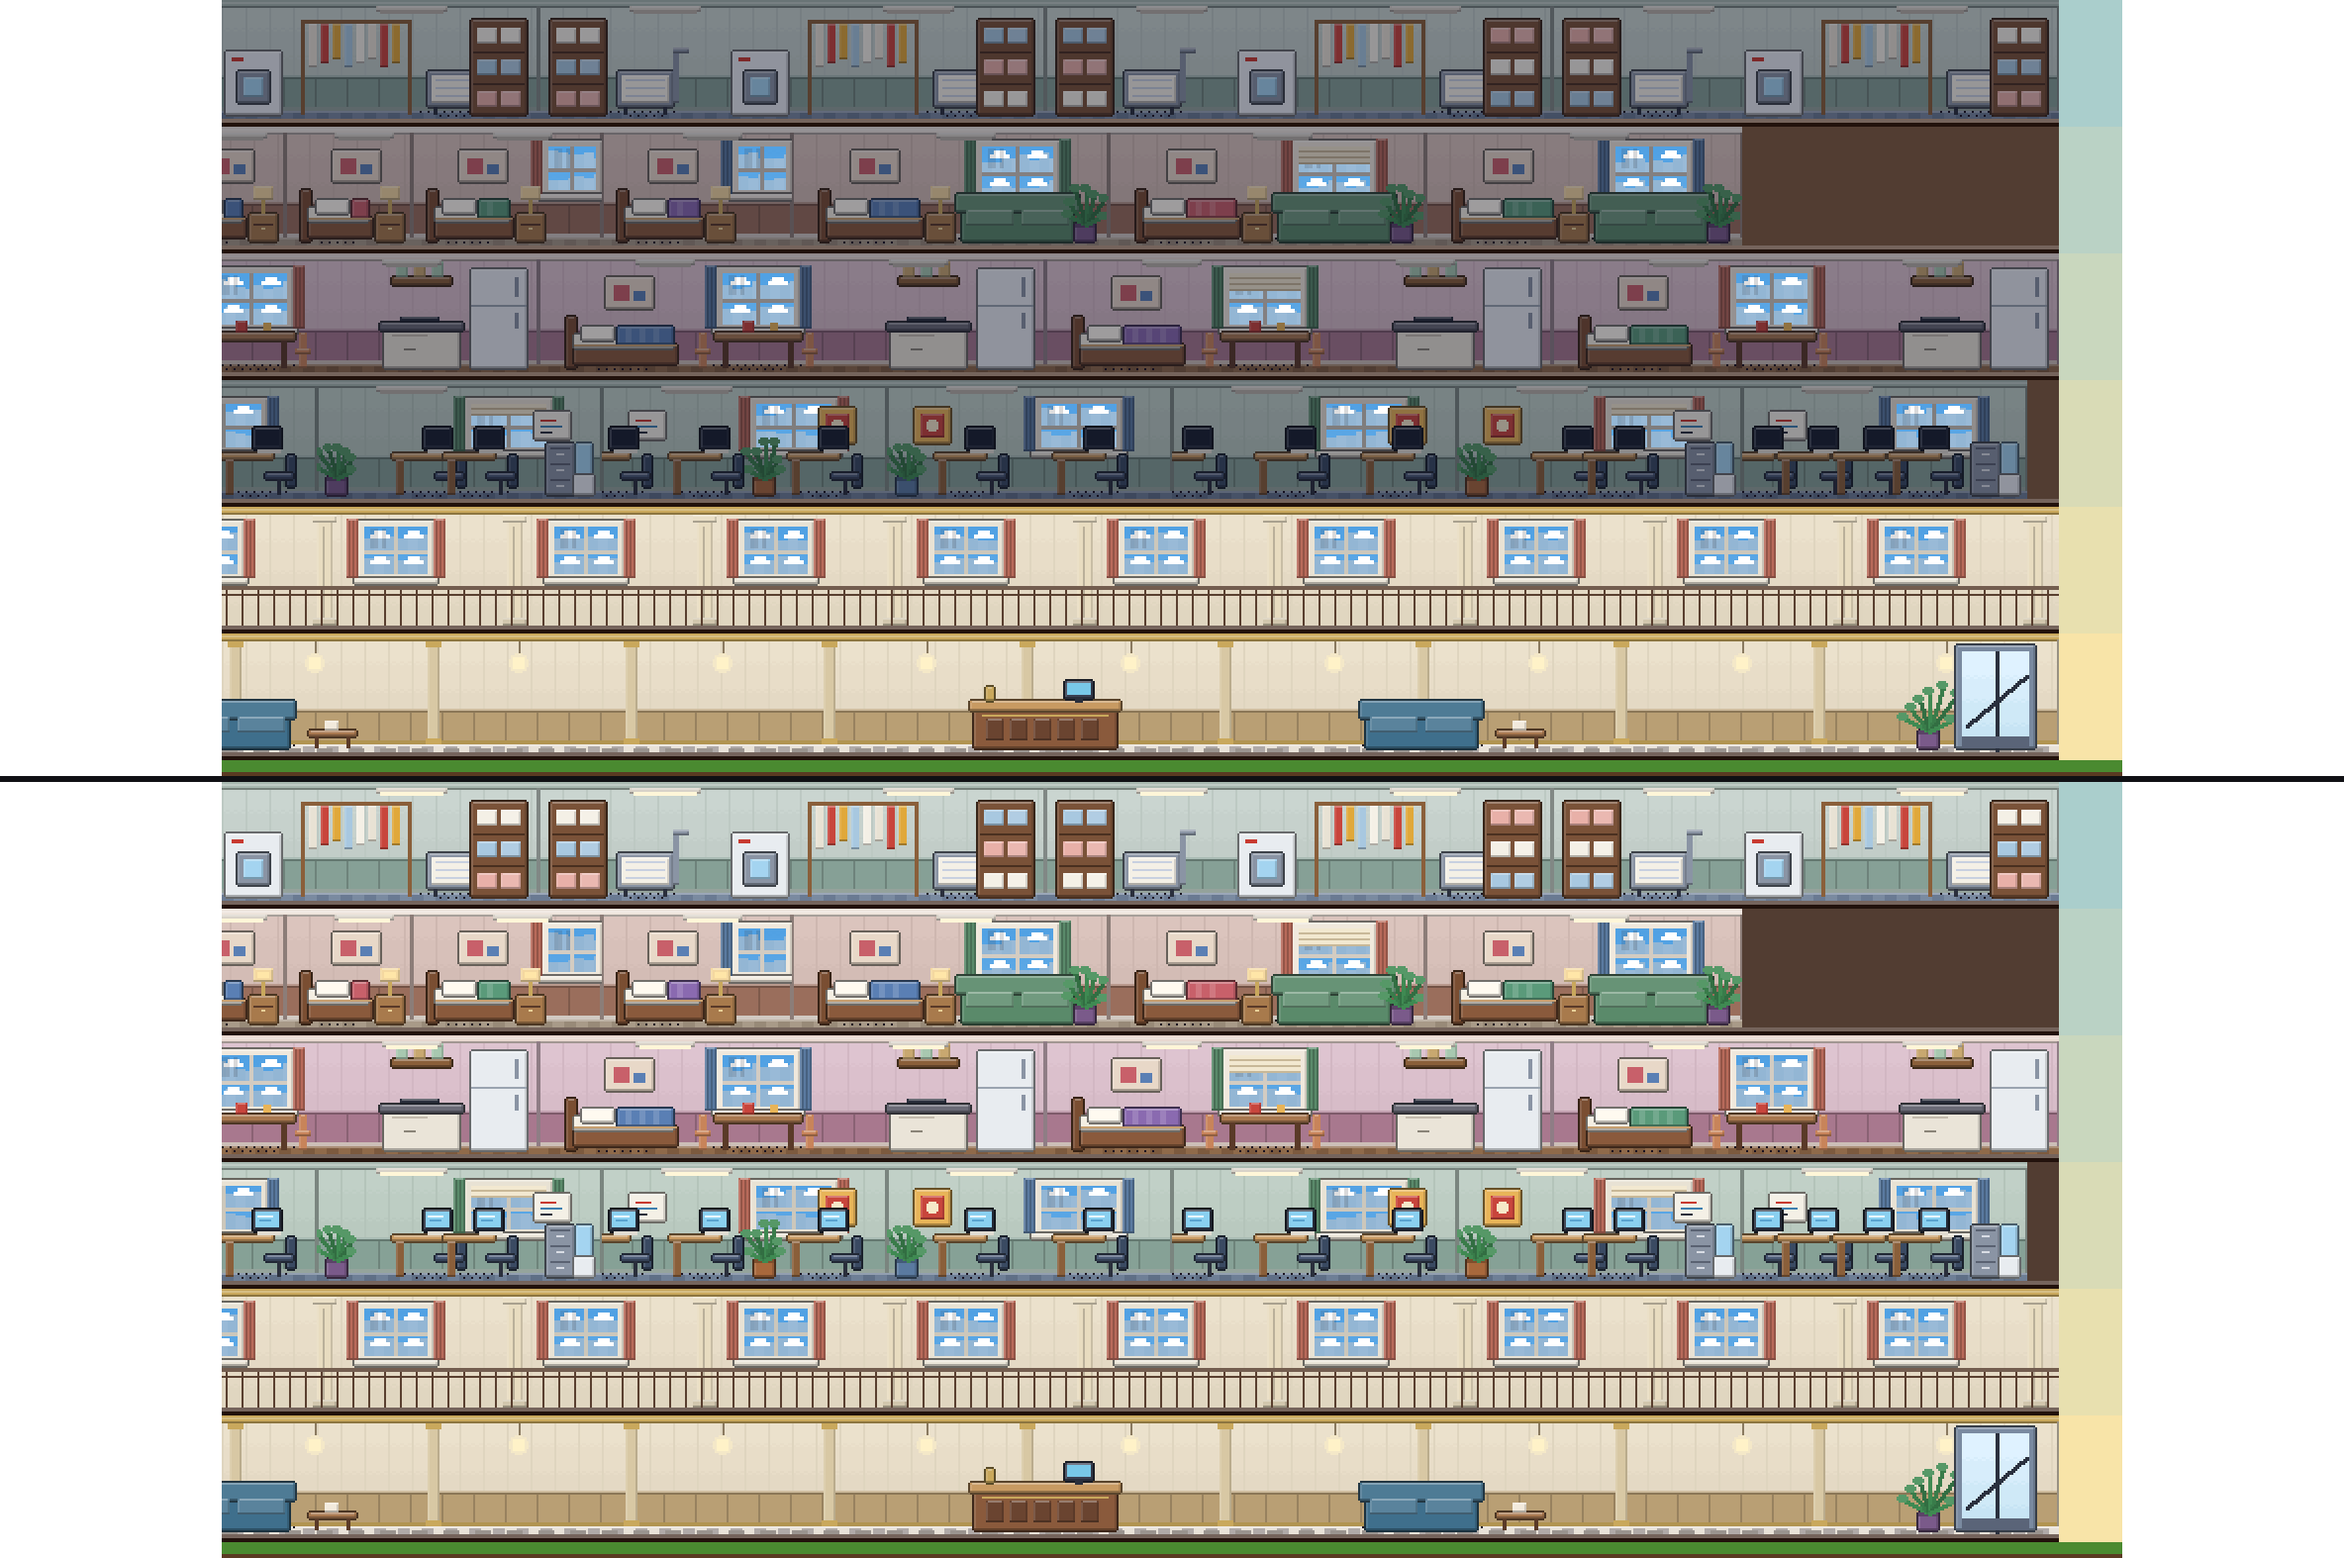
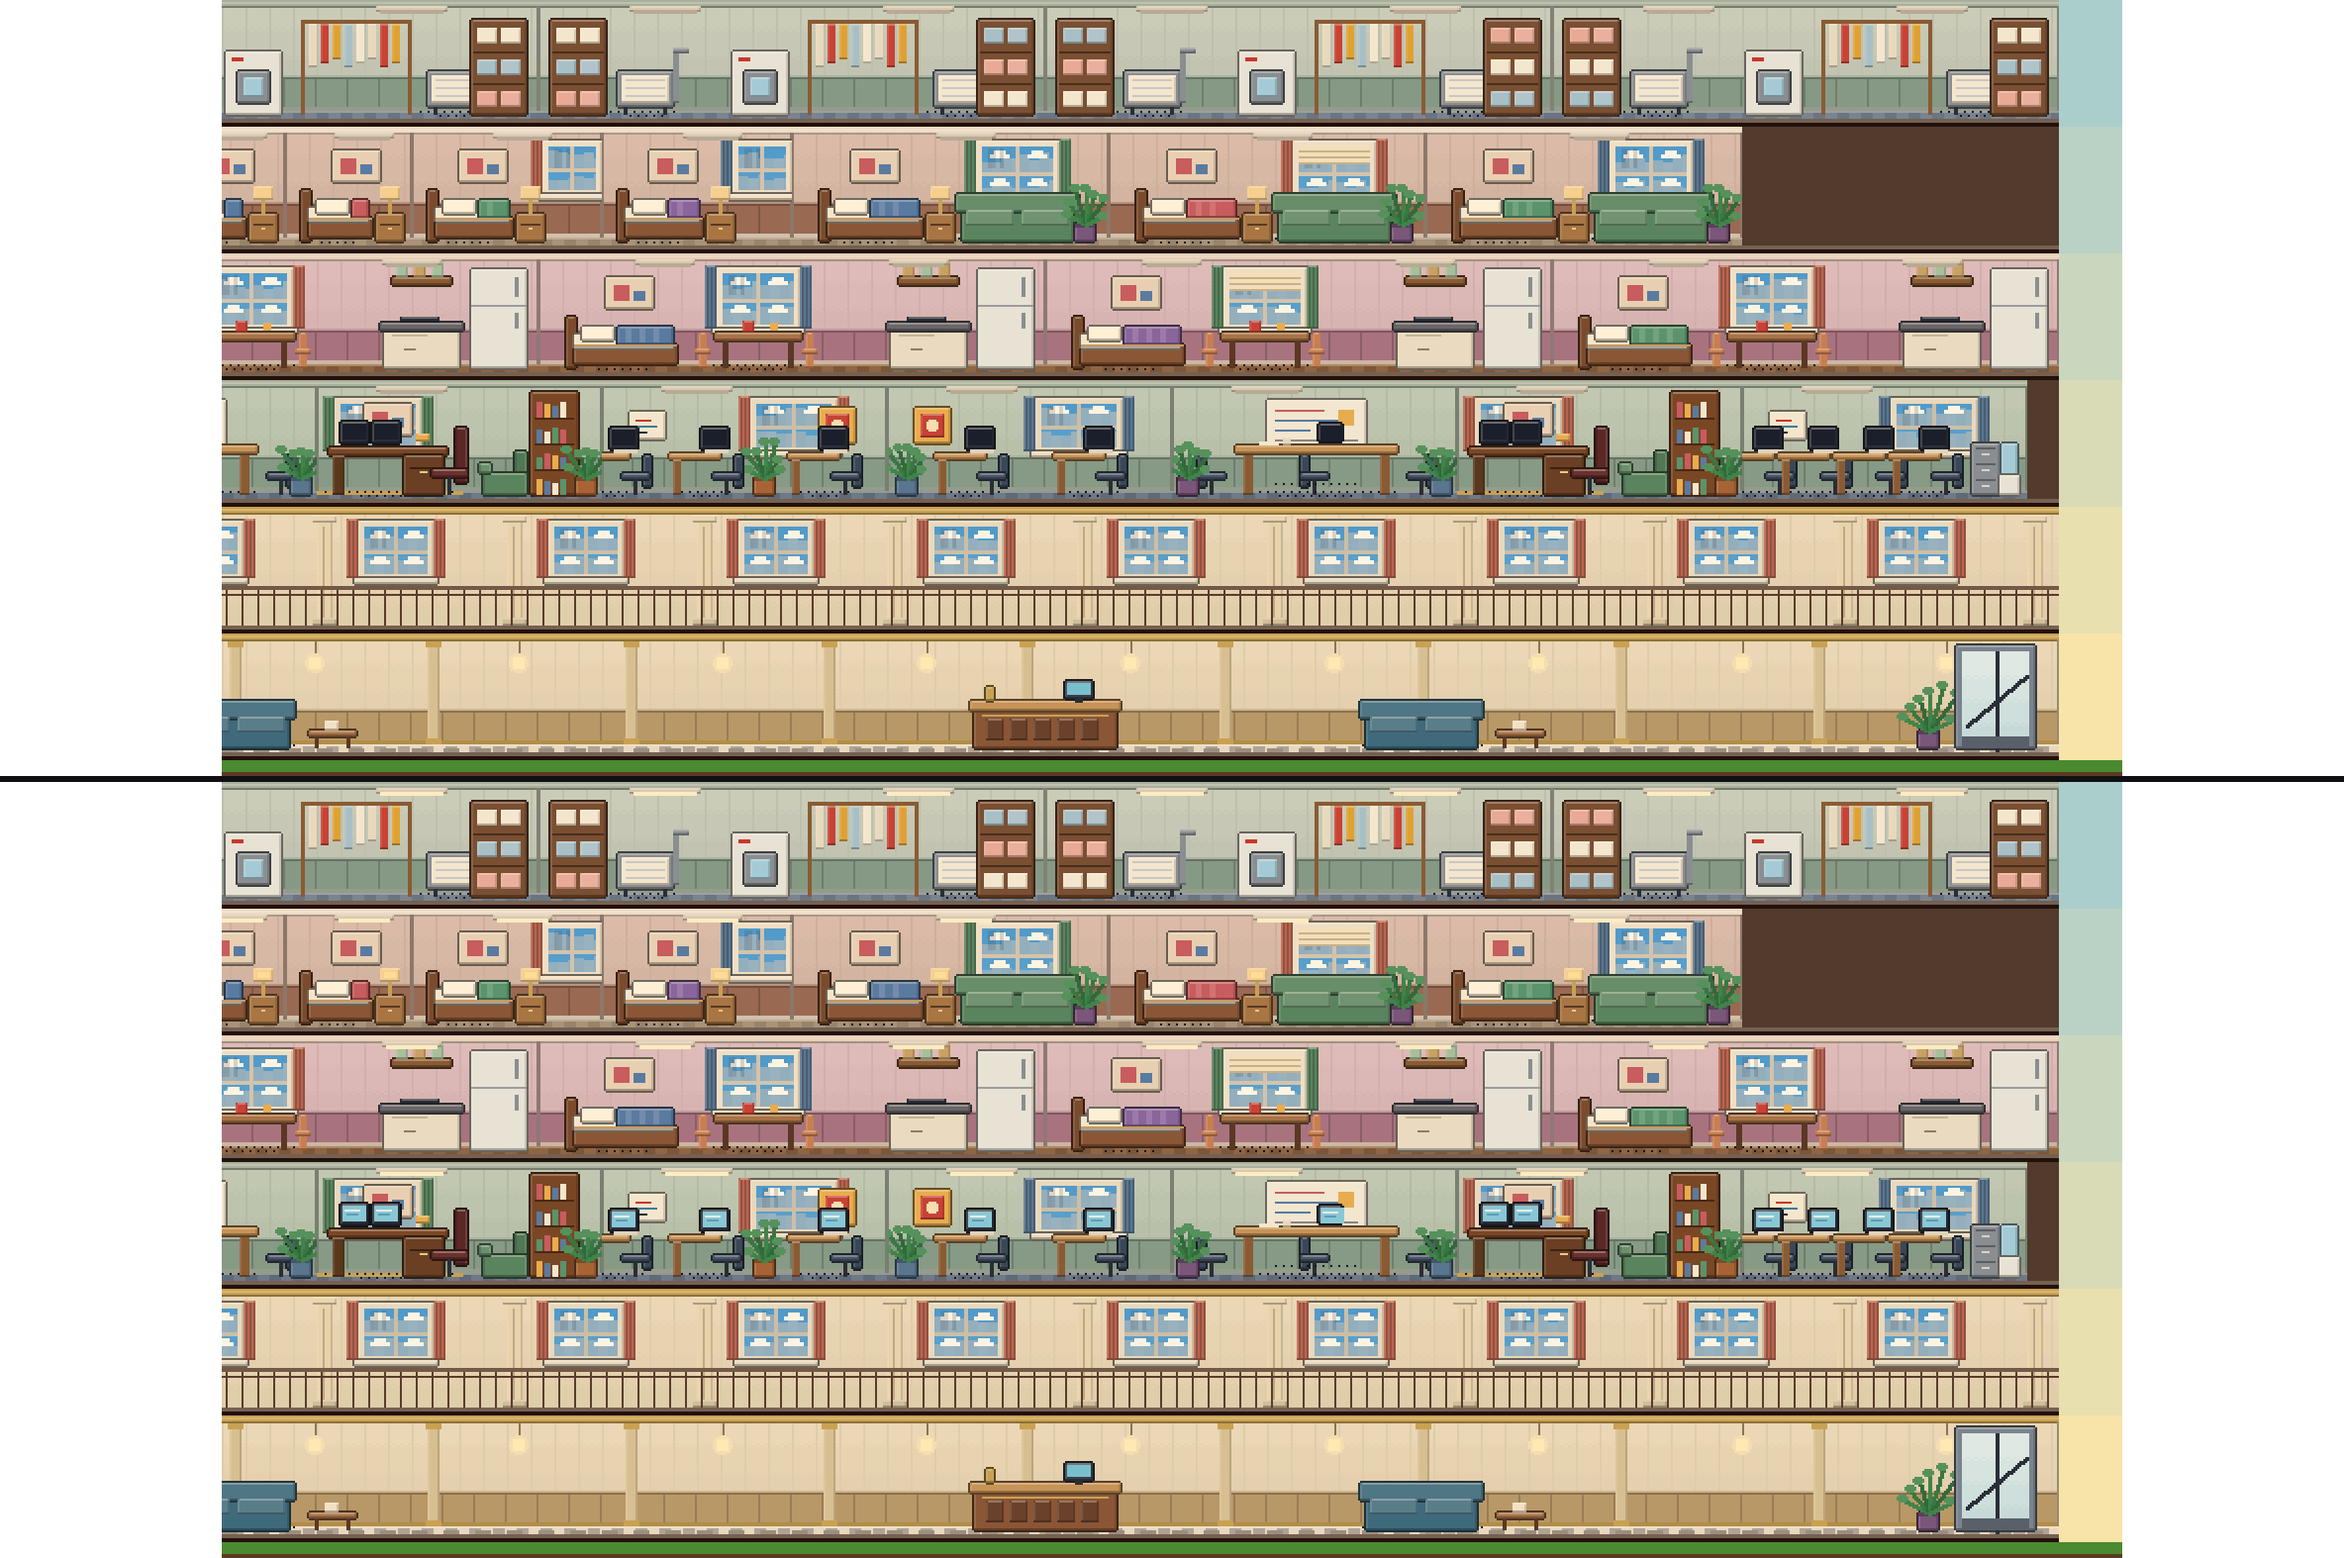
Detailed night as lighting: ambient darkening plus an additive glow layer; distinct office variants (refs #305, refs #275)

diff --git a/docs/art-standard.md b/docs/art-standard.md
@@ -61,6 +61,9 @@ Direction G was chosen (#300). Detailed batch 1 (#302: lobby, office, condo, hot
 rects, shown on a 2x static canvas (`TowerRenderer._apply_density`), so spots, camera and picking are unchanged. Use an even
 camera zoom to keep sub-pixels crisp. Captures: `docs/mockups/detailed_batch1_day.png` and `_night.png`
 (`tools/capture_recipes.gd set=1 detailed=1 time=35 zoom=4`; `time=2` for night).
+Night under Detailed is lighting (#305), not darker paint: the renderer multiplies the static canvas by the sky's ambient colour
+(`detail_light.gd`, the mock-up's day and night ambients) and an additive glow node above it paints each lit room's lamp pools, window and
+screen glow from one radial texture, clipped to the room (no per-room PointLight2D). Empty rooms stay dark; a sleeper keeps a bedside lamp.
 
 Captures: `docs/mockups/art_e_day.png` ... `art_g_night.png`, made with `-- --capture=docs/mockups`.
 
